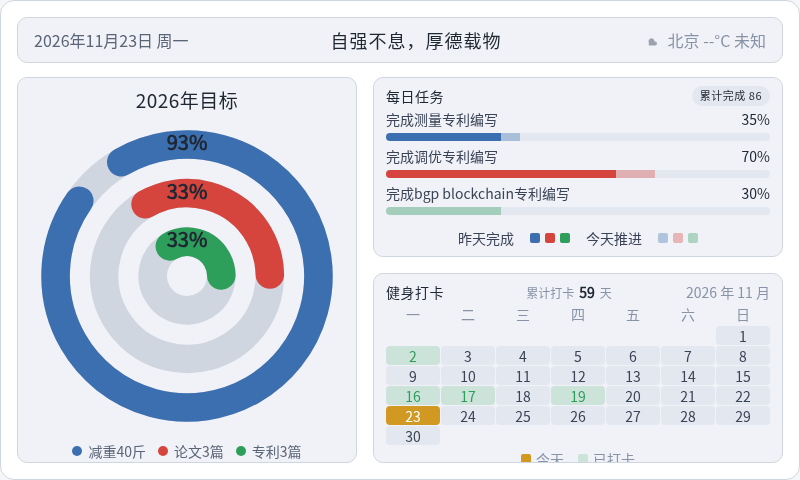
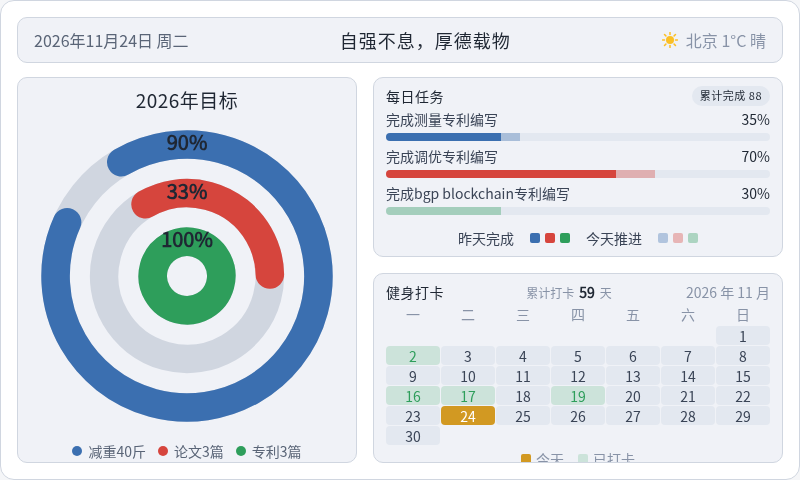
chore: 每日看板刷新 2026-11-24

diff --git a/output/dashboard/dashboard.html b/output/dashboard/dashboard.html
@@ -185,11 +185,11 @@
 <body>
   <div class="dash">
     <div class="topbar">
-      <div class="tb-date" id="tbDate">2026年11月23日 周一</div>
+      <div class="tb-date" id="tbDate">2026年11月24日 周二</div>
       <div class="tb-slogan">自强不息，厚德载物</div>
       <div class="tb-weather">
-        <svg width="16" height="16" viewBox="0 0 16 16" aria-hidden="true"><path d="M5 11 a3 3 0 1 1 5.5 -1.5 h0.5 a2 2 0 1 1 0 4 H5 a2.5 2.5 0 0 1 0 -2.5z" fill="#9ca3af"/></svg>
-        <span>北京 --°C 未知</span>
+        <svg width="16" height="16" viewBox="0 0 16 16" aria-hidden="true"><circle cx="8" cy="8" r="4" fill="#fbbf24"/><g stroke="#fbbf24" stroke-width="1.5" stroke-linecap="round"><line x1="8" y1="0.5" x2="8" y2="2.5"/><line x1="8" y1="13.5" x2="8" y2="15.5"/><line x1="0.5" y1="8" x2="2.5" y2="8"/><line x1="13.5" y1="8" x2="15.5" y2="8"/><line x1="2.5" y1="2.5" x2="3.9" y2="3.9"/><line x1="12.1" y1="12.1" x2="13.5" y2="13.5"/><line x1="13.5" y1="2.5" x2="12.1" y2="3.9"/><line x1="3.9" y1="12.1" x2="2.5" y2="13.5"/></g></svg>
+        <span>北京 1°C 晴</span>
       </div>
     </div>
     <div class="content">
@@ -200,9 +200,9 @@
           <svg viewBox="0 0 210 210" width="300" height="300" role="img" aria-label="三环进度仪表盘">
             <title>2026年目标三环进度</title>
             <g transform="rotate(-120 105 105)">
-              <circle cx="105" cy="105" r="92" fill="none" stroke="#d0d6e0" stroke-width="20"/><circle cx="105" cy="105" r="92" fill="none" stroke="#3b6fb0" stroke-width="20" stroke-linecap="round" stroke-dasharray="537.59 578.05"/><circle cx="105" cy="105" r="58" fill="none" stroke="#d0d6e0" stroke-width="20"/><circle cx="105" cy="105" r="58" fill="none" stroke="#d6453d" stroke-width="20" stroke-linecap="round" stroke-dasharray="120.26 364.42"/><circle cx="105" cy="105" r="24" fill="none" stroke="#d0d6e0" stroke-width="20"/><circle cx="105" cy="105" r="24" fill="none" stroke="#2e9e5b" stroke-width="20" stroke-linecap="round" stroke-dasharray="49.76 150.80"/>
+              <circle cx="105" cy="105" r="92" fill="none" stroke="#d0d6e0" stroke-width="20"/><circle cx="105" cy="105" r="92" fill="none" stroke="#3b6fb0" stroke-width="20" stroke-linecap="round" stroke-dasharray="520.25 578.05"/><circle cx="105" cy="105" r="58" fill="none" stroke="#d0d6e0" stroke-width="20"/><circle cx="105" cy="105" r="58" fill="none" stroke="#d6453d" stroke-width="20" stroke-linecap="round" stroke-dasharray="120.26 364.42"/><circle cx="105" cy="105" r="24" fill="none" stroke="#d0d6e0" stroke-width="20"/><circle cx="105" cy="105" r="24" fill="none" stroke="#2e9e5b" stroke-width="20" stroke-linecap="round" stroke-dasharray="150.80 150.80"/>
             </g>
-            <text x="105" y="13" text-anchor="middle" dominant-baseline="middle" fill="#1f2733" font-size="14" font-weight="700">93%</text><text x="105" y="47" text-anchor="middle" dominant-baseline="middle" fill="#1f2733" font-size="14" font-weight="700">33%</text><text x="105" y="81" text-anchor="middle" dominant-baseline="middle" fill="#1f2733" font-size="14" font-weight="700">33%</text>
+            <text x="105" y="13" text-anchor="middle" dominant-baseline="middle" fill="#1f2733" font-size="14" font-weight="700">90%</text><text x="105" y="47" text-anchor="middle" dominant-baseline="middle" fill="#1f2733" font-size="14" font-weight="700">33%</text><text x="105" y="81" text-anchor="middle" dominant-baseline="middle" fill="#1f2733" font-size="14" font-weight="700">100%</text>
           </svg>
         </div>
         <div class="legend"><div class="legend-row"><span class="dot" style="background:#3b6fb0"></span><span class="lg-name">减重40斤</span></div><div class="legend-row"><span class="dot" style="background:#d6453d"></span><span class="lg-name">论文3篇</span></div><div class="legend-row"><span class="dot" style="background:#2e9e5b"></span><span class="lg-name">专利3篇</span></div></div>
@@ -210,7 +210,7 @@
     </div>
     <div class="col-right">
       <div class="panel tasks-panel">
-        <div class="panel-title" style="color:#1f2733">每日任务<span class="task-done-count">累计完成  86</span></div>
+        <div class="panel-title" style="color:#1f2733">每日任务<span class="task-done-count">累计完成  88</span></div>
         <div class="task">
           <div class="task-head"><span style="color:#3a4456">完成测量专利编写</span><span class="task-val" style="color:#1f2733">35%</span></div>
           <div class="bar">
@@ -248,7 +248,7 @@
           <span class="cal-date">2026 年 11 月</span>
         </div>
         <div class="cal-grid wk"><span>一</span><span>二</span><span>三</span><span>四</span><span>五</span><span>六</span><span>日</span></div>
-        <div class="cal-grid"><span class="cell empty"></span><span class="cell empty"></span><span class="cell empty"></span><span class="cell empty"></span><span class="cell empty"></span><span class="cell empty"></span><span class="cell" style="background:#e3e8f0;color:#3a4456">1</span><span class="cell done" style="background:rgba(46,158,91,0.18);color:#2e9e5b">2</span><span class="cell" style="background:#e3e8f0;color:#3a4456">3</span><span class="cell" style="background:#e3e8f0;color:#3a4456">4</span><span class="cell" style="background:#e3e8f0;color:#3a4456">5</span><span class="cell" style="background:#e3e8f0;color:#3a4456">6</span><span class="cell" style="background:#e3e8f0;color:#3a4456">7</span><span class="cell" style="background:#e3e8f0;color:#3a4456">8</span><span class="cell" style="background:#e3e8f0;color:#3a4456">9</span><span class="cell" style="background:#e3e8f0;color:#3a4456">10</span><span class="cell" style="background:#e3e8f0;color:#3a4456">11</span><span class="cell" style="background:#e3e8f0;color:#3a4456">12</span><span class="cell" style="background:#e3e8f0;color:#3a4456">13</span><span class="cell" style="background:#e3e8f0;color:#3a4456">14</span><span class="cell" style="background:#e3e8f0;color:#3a4456">15</span><span class="cell done" style="background:rgba(46,158,91,0.18);color:#2e9e5b">16</span><span class="cell done" style="background:rgba(46,158,91,0.18);color:#2e9e5b">17</span><span class="cell" style="background:#e3e8f0;color:#3a4456">18</span><span class="cell done" style="background:rgba(46,158,91,0.18);color:#2e9e5b">19</span><span class="cell" style="background:#e3e8f0;color:#3a4456">20</span><span class="cell" style="background:#e3e8f0;color:#3a4456">21</span><span class="cell" style="background:#e3e8f0;color:#3a4456">22</span><span class="cell today" style="background:#d29922;color:#ffffff">23</span><span class="cell" style="background:#e3e8f0;color:#3a4456">24</span><span class="cell" style="background:#e3e8f0;color:#3a4456">25</span><span class="cell" style="background:#e3e8f0;color:#3a4456">26</span><span class="cell" style="background:#e3e8f0;color:#3a4456">27</span><span class="cell" style="background:#e3e8f0;color:#3a4456">28</span><span class="cell" style="background:#e3e8f0;color:#3a4456">29</span><span class="cell" style="background:#e3e8f0;color:#3a4456">30</span></div>
+        <div class="cal-grid"><span class="cell empty"></span><span class="cell empty"></span><span class="cell empty"></span><span class="cell empty"></span><span class="cell empty"></span><span class="cell empty"></span><span class="cell" style="background:#e3e8f0;color:#3a4456">1</span><span class="cell done" style="background:rgba(46,158,91,0.18);color:#2e9e5b">2</span><span class="cell" style="background:#e3e8f0;color:#3a4456">3</span><span class="cell" style="background:#e3e8f0;color:#3a4456">4</span><span class="cell" style="background:#e3e8f0;color:#3a4456">5</span><span class="cell" style="background:#e3e8f0;color:#3a4456">6</span><span class="cell" style="background:#e3e8f0;color:#3a4456">7</span><span class="cell" style="background:#e3e8f0;color:#3a4456">8</span><span class="cell" style="background:#e3e8f0;color:#3a4456">9</span><span class="cell" style="background:#e3e8f0;color:#3a4456">10</span><span class="cell" style="background:#e3e8f0;color:#3a4456">11</span><span class="cell" style="background:#e3e8f0;color:#3a4456">12</span><span class="cell" style="background:#e3e8f0;color:#3a4456">13</span><span class="cell" style="background:#e3e8f0;color:#3a4456">14</span><span class="cell" style="background:#e3e8f0;color:#3a4456">15</span><span class="cell done" style="background:rgba(46,158,91,0.18);color:#2e9e5b">16</span><span class="cell done" style="background:rgba(46,158,91,0.18);color:#2e9e5b">17</span><span class="cell" style="background:#e3e8f0;color:#3a4456">18</span><span class="cell done" style="background:rgba(46,158,91,0.18);color:#2e9e5b">19</span><span class="cell" style="background:#e3e8f0;color:#3a4456">20</span><span class="cell" style="background:#e3e8f0;color:#3a4456">21</span><span class="cell" style="background:#e3e8f0;color:#3a4456">22</span><span class="cell" style="background:#e3e8f0;color:#3a4456">23</span><span class="cell today" style="background:#d29922;color:#ffffff">24</span><span class="cell" style="background:#e3e8f0;color:#3a4456">25</span><span class="cell" style="background:#e3e8f0;color:#3a4456">26</span><span class="cell" style="background:#e3e8f0;color:#3a4456">27</span><span class="cell" style="background:#e3e8f0;color:#3a4456">28</span><span class="cell" style="background:#e3e8f0;color:#3a4456">29</span><span class="cell" style="background:#e3e8f0;color:#3a4456">30</span></div>
         <div class="cal-legend">
           <span style="color:#8893a7"><i class="sw" style="background:#d29922"></i>今天</span>
           <span style="color:#8893a7"><i class="sw" style="background:rgba(46,158,91,0.18)"></i>已打卡</span>
